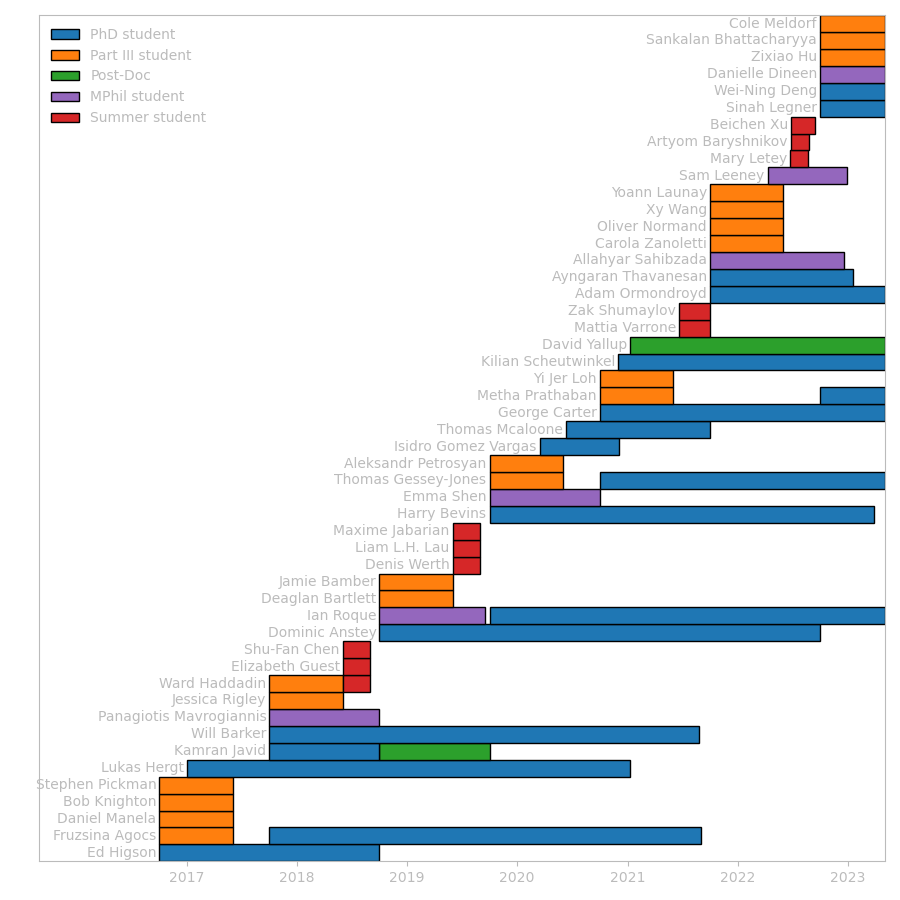
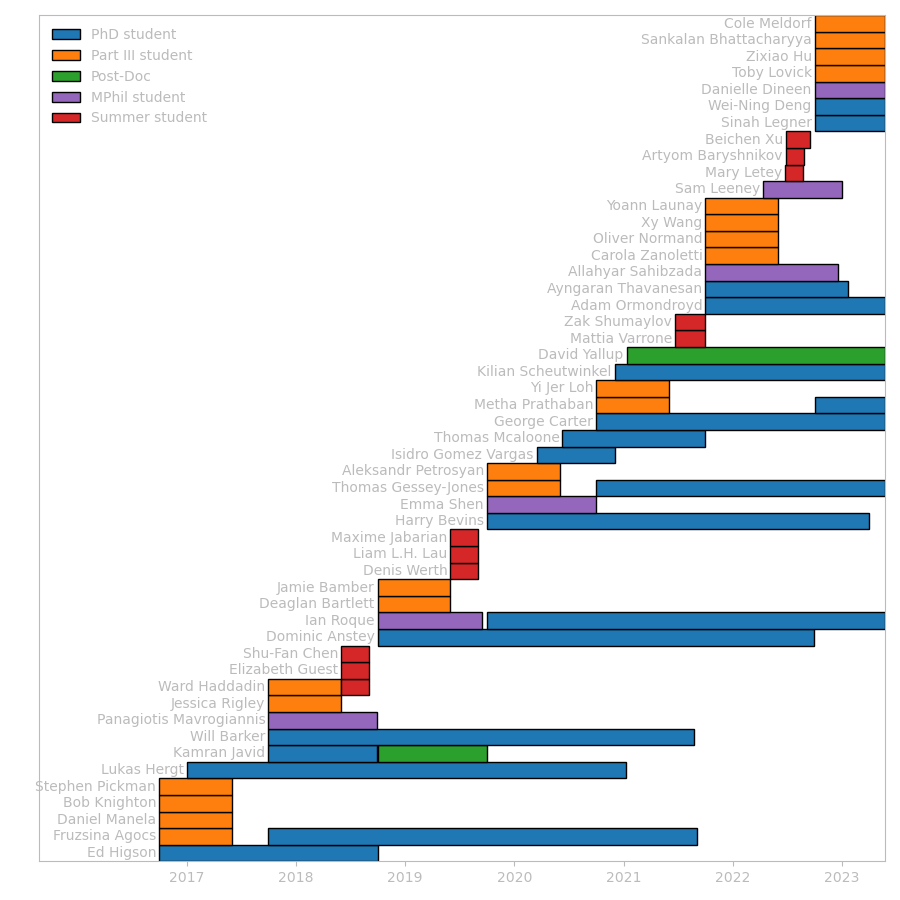
Updated

diff --git a/assets/students/students.html b/assets/students/students.html
@@ -377,7 +377,7 @@
         <ul>
           <li>PhD student from Oct 2019 to Mar 2023<ul><li>co-supervised with <a href="https://www.phy.cam.ac.uk/directory/dr-eloy-de-lera-acedo">Eloy de Lera Acedo</a>, <a href="https://www.ast.cam.ac.uk/people/Anastasia.Fialkov">Anastasia Fialkov</a></li></ul></li>
           <li>
-            <a href="https://arxiv.org/search/?query=handley%2C+w%3B+Bevins%2CH&searchtype=author">Shared research papers (9)</a>
+            <a href="https://arxiv.org/search/?query=handley%2C+w%3B+Bevins%2CH&searchtype=author">Shared research papers (10)</a>
           </li>
           <li>Links:</li>
           <ul>
@@ -864,23 +864,6 @@
         </ul>
       </p>
     </div>
-    <div class="grid-item">
-      <img src="/assets/students/images/stephen_pickman.jpg" />
-    </div>
-    <div class="grid-item">
-      <p>
-        <font size="+2">Stephen Pickman</font>
-      </p>
-      <p>
-        <ul>
-          <li>Part III student from Oct 2016 to Jun 2017</li>
-          <li>Subsequent career:</li>
-          <ul>
-            <li>Oct 2017: Software developer at DarkTrace</li>
-          </ul>
-        </ul>
-      </p>
-    </div>
   </div>
 </div>
 <div class="wrapper" style="margin-top:30pt">
@@ -1062,7 +1045,7 @@
           <li>Subsequent career:</li>
           <ul>
             <li>Oct 2019: MSc in Theoretical Chemistry, Cambridge</li>
-            <li>Oct 2022: PhD in exoplanet astmospheres, UCL</li>
+            <li>Oct 2022: PhD in exoplanet atmospheres, UCL</li>
           </ul>
         </ul>
       </p>

diff --git a/assets/students/students.py b/assets/students/students.py
@@ -21,7 +21,8 @@ supervisors = [
     Supervisor('Mark Ashdown', "https://www.phy.cam.ac.uk/staff/dr-mark-ashdown"),
     Supervisor('Keith Grainge', "https://www.research.manchester.ac.uk/portal/keith.grainge.html"),
     Supervisor('Malak Olamaie', "https://www.yorksj.ac.uk/our-staff/staff-profiles/malak-olamaie.php"),
-    Supervisor('David Stefanyszyn',"https://www.nottingham.ac.uk/physics/people/david.stefanyszyn")
+    Supervisor('David Stefanyszyn',"https://www.nottingham.ac.uk/physics/people/david.stefanyszyn"),
+    Supervisor('Suhail Dhawan',"https://www.lucy.cam.ac.uk/fellows/dr-suhail-dhawan"),
 ]
 
 supervisors = {s.name:s for s in supervisors}

diff --git a/assets/students/html_table.py b/assets/students/html_table.py
@@ -31,7 +31,7 @@ css = """
 }
 """
 
-ignore = ["George Carter"]
+ignore = ["George Carter", "Toby Lovick", "Stephen Pickman"]
 
 with open(html_file, 'w') as f:
     doc = Doc()
